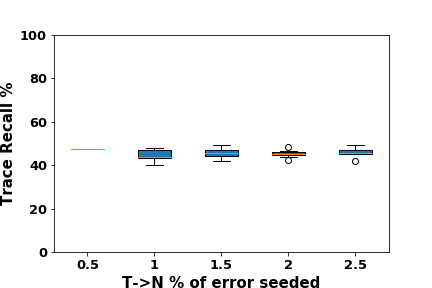
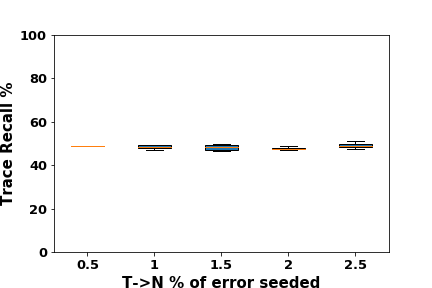
new

diff --git a/Paper2RandomForestSeeding.py b/Paper2RandomForestSeeding.py
@@ -67,9 +67,20 @@ def main():
     y_test={}
     
    
-    
+    CorrectData = pd.read_csv( 'InputDataAtLeastOneInstance.txt', sep= ',', index_col=False) 
+    CorrectData=CorrectData.drop(columns=['Program'], axis=1)
+    row_count, column_count = CorrectData.shape
+    CorrectData['MethodType'] = CorrectData['MethodType'].astype('category').cat.codes
+    CorrectData['gold'] = CorrectData['gold'].astype('category').cat.codes
+
+
+    X = CorrectData.iloc[:, 1:column_count].values
+    y = CorrectData.iloc[:, 0].values
+    X_train, X_test2, y_train, y_test2 = train_test_split(X, y, test_size=0.5, random_state=1)    
+
+    #print(CorrectData)
     path = 'TtoN'
-    print_precision_recall(path)
+    print_precision_recall(path, X_train, y_train)
     
     
     drawboxplots('Prec_T', TtoN0_5PrecT, TtoN1PrecT, TtoN1_5PrecT, TtoN2PrecT, TtoN2_5PrecT, 'Trace Precision %', 
@@ -81,7 +92,7 @@ def main():
     drawboxplots('Rec_N', TtoN0_5RecN, TtoN1RecN, TtoN1_5RecN, TtoN2RecN, TtoN2_5RecN, 'NoTrace Recall %', 
                  'T->N % of error seeded', './boxplots/NoTraceRecallVsTtoNError')
     path = 'NtoT'
-    print_precision_recall(path)
+    print_precision_recall(path, X_train, y_train)
 
     drawboxplots('Prec_T', NtoT5PrecT, NtoT10PrecT, NtoT15PrecT, NtoT20PrecT, NtoT25PrecT, 'Trace Precision %', 
                  'N->T % of error seeded', './boxplots/TracePrecisionVsNtoTError')
@@ -107,10 +118,10 @@ def drawboxplots(prec_T, array1, array2, array3, array4, array5, ylabel, xlabel,
     plt.savefig(figname)
     plt.show()
     
-def print_precision_recall(path):
+def print_precision_recall(path, X_train, y_train):
     
     files = os.listdir(path)
-    
+
     for f in files:
         print(f)
         filename=path+'\\'+f
@@ -137,7 +148,7 @@ def print_precision_recall(path):
     
         
         
-        X_train, X_test, y_train, y_test = train_test_split(X, y, test_size=0.5, random_state=1)    
+        X_train2, X_test, y_train2, y_test = train_test_split(X, y, test_size=0.5, random_state=1)    
     
          
     ################################################################################

diff --git a/Paper2RandomForestChecking.py b/Paper2RandomForestChecking.py
@@ -24,9 +24,10 @@ def main():
 
     row_count, column_count = dataset.shape
     
-
+    #dataset.drop(columns=['Program'], axis=1)
     X = dataset.iloc[:, 1:column_count].values
     y = dataset.iloc[:, 0].values
+    
     
     #X_train, X_test, y_train, y_test = train_test_split(X, y, test_size=0.5, random_state=0)      
     #ComputePrecisionRecall(X_train, X_test, y_train, y_test)
